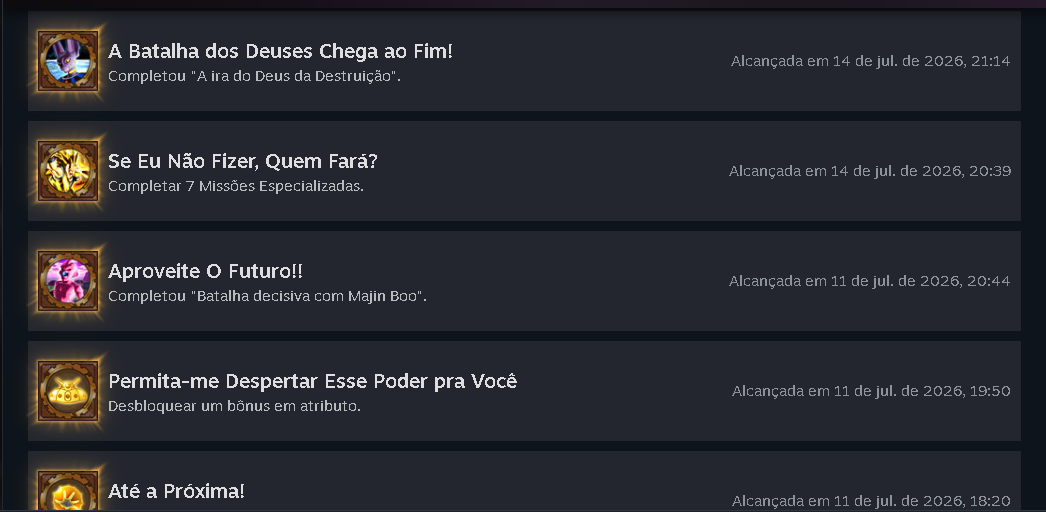
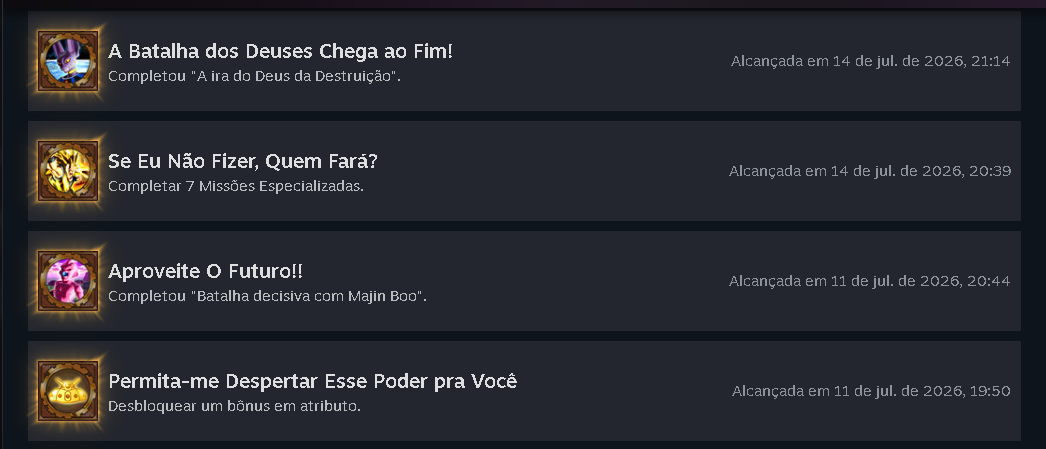
Tarefa concluida

diff --git a/dragonball.html b/dragonball.html
@@ -1,0 +1,51 @@
+<!doctype html>
+<html lang="pt-br">
+  <head>
+    <meta charset="UTF-8" />
+    <meta name="viewport" content="width=device-width, initial-scale=1.0" />
+    <title>Dragon Ball Xenoverse 2</title>
+    <link rel="stylesheet" href="style.css" />
+  </head>
+  <body>
+    <header>
+      <img class="logo" src="assents/Imagem steam.jpg" alt="Logo da Steam" />
+      <nav>
+        <ul>
+          <li><a href="">Loja</a></li>
+          <li><a href="index.html">Biblioteca</a></li>
+          <li><a href="">Comunidade</a></li>
+          <li><a href="">KaiqueFreitas</a></li>
+        </ul>
+      </nav>
+    </header>
+
+    <img
+      class="banner_jogo"
+      src="assents/Dragon ball.png"
+      alt="Dragon Ball Xenoverse 2"
+    />
+
+    <div class="barra_steam">
+      <div class="status">
+        <span>TEMPO DE JOGO</span>
+        <p>347 horas</p>
+      </div>
+
+      <div class="status">
+        <span>CONQUISTAS</span>
+        <p>24/61</p>
+      </div>
+    </div>
+
+    <div class="conquistas">
+      <h1>CONQUISTAS</h1>
+      <img src="assents/conquista dran ball part1.png" alt="Conquistas Parte 1" />
+      <img src="assents/conquista dran ball part2.png" alt="Conquistas Parte 2" />
+      <img src="assents/conquista dran ball part3.png" alt="Conquistas Parte 3" />
+      <img src="assents/conquista dran ball part4.png" alt="Conquistas Parte 4" />
+      <img src="assents/conquista dran ball part5.png" alt="Conquistas Parte 5" />
+      <img src="assents/conquista dran ball part6.png" alt="Conquistas Parte 6" />  
+      <img src="assents/conquista dran ball part7.png" alt="Conquistas Parte 7" /> 
+    </div>
+  </body>
+</html>

diff --git a/fc26.html b/fc26.html
@@ -1,0 +1,46 @@
+<!doctype html>
+<html lang="pt-br">
+  <head>
+    <meta charset="UTF-8" />
+    <meta name="viewport" content="width=device-width, initial-scale=1.0" />
+    <title>EA SPORTS FC 26</title>
+    <link rel="stylesheet" href="style.css" />
+  </head>
+  <body>
+    <header>
+      <img class="logo" src="assents/Imagem steam.jpg" alt="Logo da Steam" />
+      <nav>
+        <ul>
+          <li><a href="">Loja</a></li>
+          <li><a href="index.html">Biblioteca</a></li>
+          <li><a href="">Comunidade</a></li>
+          <li><a href="">KaiqueFreitas</a></li>
+        </ul>
+      </nav>
+    </header>
+
+    <img
+      class="banner_jogo" src="assents/Fc26.png" alt="EA SPORTS FC 26"
+    />
+
+    <div class="barra_steam">
+      <div class="status">
+        <span>TEMPO DE JOGO</span>
+        <p>205 horas</p>
+      </div>
+
+      <div class="status">
+        <span>CONQUISTAS</span>
+        <p>16/43</p>
+      </div>
+    </div>
+
+    <div class="conquistas">
+      <h1>CONQUISTAS</h1>
+      <img src="assents/Conquistas fc 26 part 1.png" alt="Conquistas Parte 1" />
+      <img src="assents/Conquistas fc 26 part 2.png" alt="Conquistas Parte 2" />
+      <img src="assents/Conquistas fc 26 part 3.png" alt="Conquistas Parte 3" />
+      <img class = "img solo" src="assents/Conquistas fc 26 part 4.png" alt="Conquistas Parte 4" />
+    </div>
+  </body>
+</html>

diff --git a/style.css b/style.css
@@ -8,15 +8,21 @@
 body {
   background-color: #1b2838;
   color: #ffffff;
+  padding-top: 140px;
 }
 
 header {
+  top: 0;
+  left : 0;
+  width: 100%;
+  z-index:1000 ;
   background-color: #111111;
   display: flex;
   justify-content: flex-start;
   align-items: center;
   padding: 30px 30px;
   gap: 48px;
+  position: fixed;
 }
 
 .logo {
@@ -66,11 +72,13 @@ p {
 .Meus_jogos_favoritos, .Meus_jogos {
 display: flex;
 flex-wrap: wrap;
-gap: 25px;
+gap: 30px;
 }
 
 .Meus_jogos_favoritos img, .Meus_jogos img{
- border-radius: 4px;
+  width : 500px;
+ height: 590px;
+ border-radius: 25px;
   box-shadow: 0 4px 8px rgba(0, 0, 0, 0.6);
   cursor: pointer;
   transition: transform 0.3s ease,box-shadow 0.3s ease; 
@@ -78,7 +86,7 @@ gap: 25px;
 }
 
 .Meus_jogos_favoritos img:hover, .Meus_jogos img:hover{
-  transform: scale(1.05);
+  transform: scale(1.15);
   box-shadow: 0 8px 16px rgba(0, 0, 0, 0.6);
 }
 
@@ -127,6 +135,8 @@ padding: 30px;
  max-width: 5000px; 
  
 }
+
+
 
 
 

diff --git a/index.html b/index.html
@@ -26,11 +26,15 @@
         favoritos e  minhas conquistas neles.
        </p>
         <div class="Meus_jogos_favoritos">
-          <img src="assents/Dragon ball mini.png" alt="Dragon Ball">
-           <img src="assents/fc 26 mini.png" alt="FC 26">
-           <a href="ori.html">
-             <img src="assents/Ori mini.png" alt="Ori">
-           </a>
+          <a href="dragonball.html">
+            <img src="assents/Dragon ball mini.png" alt="Dragon Ball">
+          </a>
+          <a href="fc26.html">
+            <img src="assents/fc 26 mini.png" alt="FC 26">
+          </a>
+          <a href="ori.html">
+            <img src="assents/Ori mini.png" alt="Ori">
+          </a>
         </div>
      
     </section>
